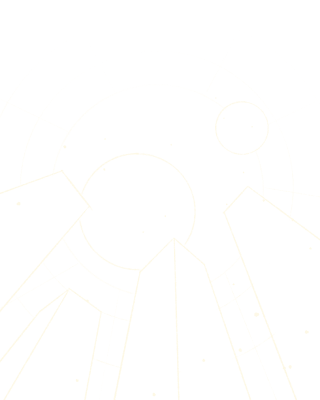
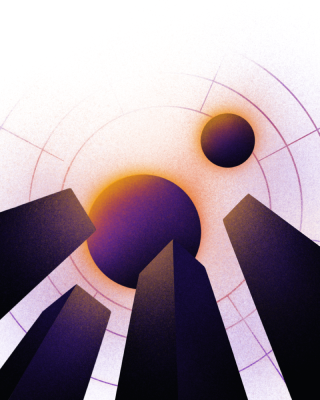
productions images changed

diff --git a/src/lib/common/IllustrationCard.svelte b/src/lib/common/IllustrationCard.svelte
@@ -6,10 +6,7 @@
 </script>
 
 <!-- svelte-ignore a11y-click-events-have-key-events -->
-<div
-	class={clsx('image-with-text relative rounded-lg cursor-pointer p-[1px]', $$props.class)}
-	on:click
->
+<div class={clsx('image-with-text relative rounded-lg cursor-pointer', $$props.class)} on:click>
 	<img src={imageUrl} width={300} height={400} class="rounded-lg" loading="lazy" alt="" />
 	<p
 		class="text-on-image absolute text-left font-bold text-white top-[32px] left-[32px] text-[20px] md:text-[28px]"
@@ -20,11 +17,11 @@
 
 <style>
 	.image-with-text {
-		background: linear-gradient(144.34deg, rgba(247, 243, 243, 0) -29.96%, rgba(63, 63, 63, 0) 131.56%);
+		background: linear-gradient(177.68deg, #0e0e0e -18.67%, #000000 114.79%);
 		transition: background 0.5s ease;
 	}
 	.image-with-text:hover {
-		background: linear-gradient(144.34deg, rgba(247, 243, 243, 1) -29.96%, rgba(63, 63, 63, 0.67) 131.56%);
+		border: 1px solid #202020;
 	}
 
 	.text-on-image {

diff --git a/src/lib/Production.svelte b/src/lib/Production.svelte
@@ -1,10 +1,10 @@
 <script>
-	import earn from '../assets/cards/earn.jpg';
-	import ecosystem_calls from '../assets/cards/ecosystem_calls.jpg';
-	import instagrants from '../assets/cards/instagrants.jpg';
-	import alphasquad from '../assets/cards/alphasquad.jpg';
-	import build from '../assets/cards/build.jpg';
-	import founders_league from '../assets/cards/founders_league.jpg';
+	import earn from '../assets/cards/earn.png';
+	import ecosystem_calls from '../assets/cards/ecosystem_calls.png';
+	import instagrants from '../assets/cards/instagrants.png';
+	import alphasquad from '../assets/cards/alphasquad.png';
+	import build from '../assets/cards/build.png';
+	import founders_league from '../assets/cards/founders_league.png';
 	import IllustrationCard from './common/IllustrationCard.svelte';
 	import Modal from './common/Modal.svelte';
 	import thunder from '../assets/logos/thunder.svg';

diff --git a/src/lib/common/Modal.svelte b/src/lib/common/Modal.svelte
@@ -132,6 +132,10 @@
 
 		color: #ffffff;
 	}
+	.left-img {
+		background: linear-gradient(177.68deg, #0e0e0e -18.67%, #000000 114.79%);
+		transition: background 0.5s ease;
+	}
 	@keyframes scaleUp {
 		0% {
 			transform: scale(0.8);
